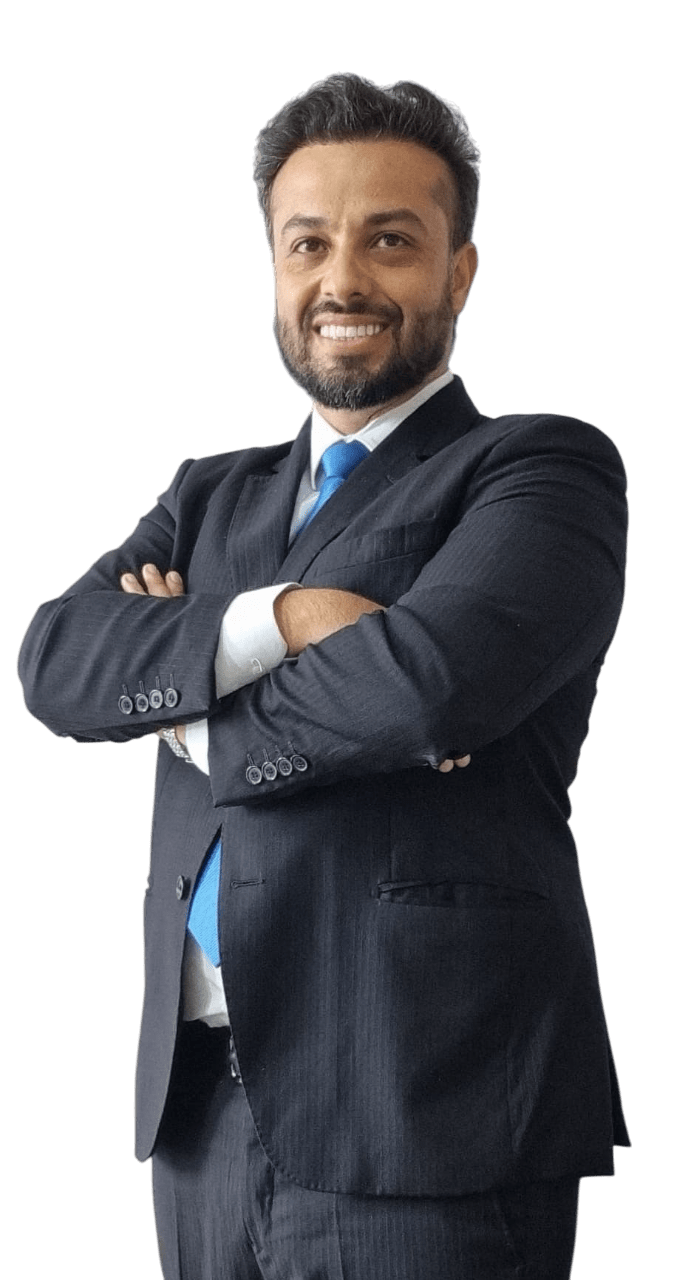
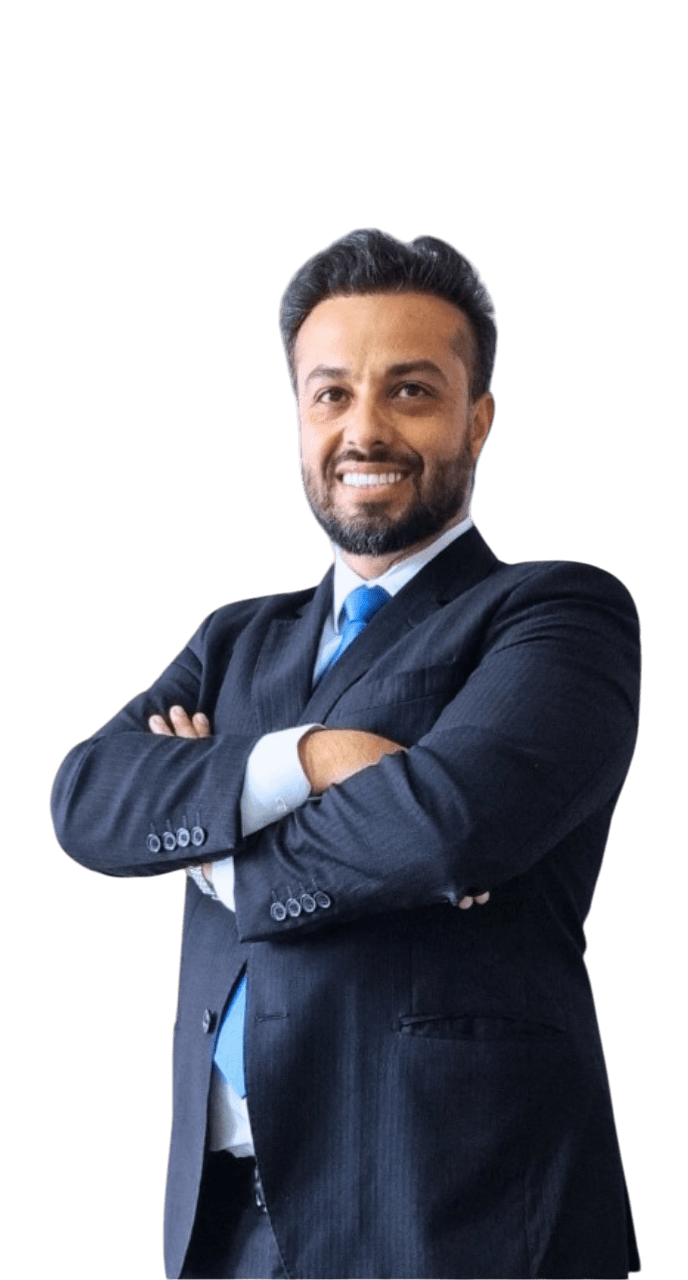
finish

diff --git a/index.html b/index.html
@@ -95,11 +95,13 @@
     </section>
 
     <section class="about">
-        <div class="about-img">
-            <img src="images/avatar.png" alt="Foto do Dr. Leandro Ramalho, advogado especializado em planejamento patrimonial.">
-        </div>
-        <div class="about-txt">
-            <h1><span>Quem é o</span> <br> Dr. Leandro Ramalho?</h1>
+       
+        <div class="about-content">
+            <img class="aboutimg" src="images/avatar.png" alt="Foto do Dr. Leandro Ramalho, advogado especializado em planejamento patrimonial.">
+            
+
+            <div class="about-txt">
+                <h1><span>Quem é o</span> <br> Dr. Leandro Ramalho?</h1>
             <div class="line"></div>
             <p>Com vinte anos de atuação no mundo jurídico, Dr. Leandro Ramalho é advogado, mestre, doutorando em
                 Direito, e fundador do Escritório Ramalho Advocacia, especializado em Planejamento Patrimonial da
@@ -109,6 +111,8 @@
                 queridos, evitando com que eles tenham que passar pelo doloroso processo de inventário, que dilapida até
                 40% do patrimônio a ser herdado.</p>
             <p>Sua missão é impedir que a família brasileira perca seu patrimônio para o inventário!</p>
+            </div>
+
         </div>
 
         <img class="mobileimg" src="images/avatar.png" alt="Foto do Dr. Leandro Ramalho, advogado especializado em planejamento patrimonial.">

diff --git a/style.css b/style.css
@@ -188,7 +188,7 @@ button:hover {
 .comment {
     height: auto;
     padding: 100px 0;
-    width: 80vw;
+    width: 100vw;
     overflow: hidden;
     margin: auto;
 
@@ -218,7 +218,7 @@ button:hover {
 
 .wpp {
     height: auto;
-    width: 100%;
+    width: 80%;
     display: flex;
     align-items: center;
     justify-content: center;
@@ -242,6 +242,8 @@ button:hover {
 .about {
     background-color: black;
     display: flex;
+    flex-direction: column;
+    gap: 100px;
     justify-content: center;
     align-items: center;
     align-items: center;
@@ -252,16 +254,23 @@ button:hover {
     background-color: black;
 }
 
-.about-img {
+.mobileimg{
+    display: none;
 
-    display: flex;
-    align-items: end;
-    justify-content: end;
 }
 
-.about-img img {
+.about>a{
+    z-index: 100;
+}
+
+
+.aboutimg {
     width: 200px;
     z-index: 10;
+}
+.about-content{
+display: flex;
+align-items: end;
 }
 
 .about-txt {
@@ -374,15 +383,12 @@ button:hover {
 
     .about{
         flex-direction: column;
+        gap: 0;
     }
 
     .mobileimg{
         display: block !important;
         width: 300px;
-        z-index: 100;
-    }
-
-    .about>a{
         z-index: 100;
     }
 
@@ -412,6 +418,11 @@ button:hover {
         max-width: 85vw;
         text-align: justify;
     }
+
+    a>button{
+        font-size: 17px !important;
+    }
+
 
 }
 
